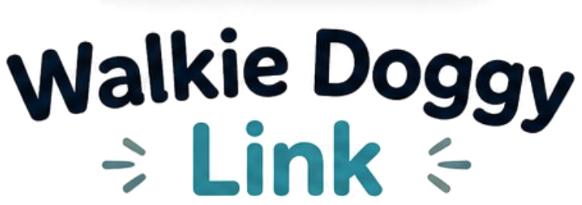
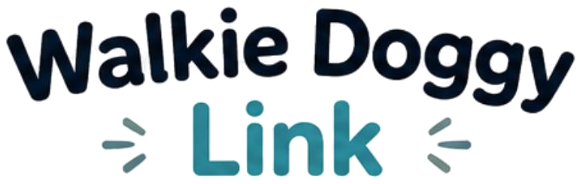
fix(tutorial-video): wordmark DRAFT v2 removes residual shadow stroke
Video QA of the music + clean-wordmark preview showed a faint grey stroke
above the lettering. Cause: the source's shadow band covers only the
middle of the top rows, so the per-row background model read it as faint
ink (alpha up to 16). v2 models the background in 2-D by normalised
convolution over non-ink pixels and clears stray alpha outside the glyphs:
top rows fully transparent, 0 stray pixels, round-trip ink error mean
0.26 levels (was 0.66). Provenance and QA sheet updated; still DRAFT,
mascot untouched.

Validator: report non-silent audio as "narration and/or music" (a
music-only DRAFT preview was labelled "narration present").

Claude-Session: https://claude.ai/code/session_01M2p5shTTMgSJjd9m8b4GYB

diff --git a/scripts/tutorial-video/validate_video.py b/scripts/tutorial-video/validate_video.py
@@ -108,7 +108,7 @@ def main() -> None:
                              capture_output=True, text=True).stderr
         m = re.search(r'max_volume: (-?[\d.inf]+) dB', vol)
         print(f'INFO {name}: audio max_volume {m.group(1) if m else "?"} dB '
-              f'({"silent — animatic, no narration yet" if m and m.group(1) in ("-inf", "-91.0") else "narration present"})')
+              f'({"silent — animatic, no audio yet" if m and m.group(1) in ("-inf", "-91.0") else "audio present (narration and/or music)"})')
 
     vtt = out / 'tutorial.he.vtt'
     cues = parse_vtt(vtt)

diff --git a/docs/product/tutorial-video/assets/WORDMARK_PROVENANCE.md b/docs/product/tutorial-video/assets/WORDMARK_PROVENANCE.md
@@ -4,7 +4,7 @@ Lifecycle: **DRAFT** — not used by the app; not used by the video build unless
 
 | | |
 | --- | --- |
[3 lines of base64/hex data omitted]
 | Replaces? | Nothing. `assets/walkie-doggy-link-wordmark-transparent.png` is untouched. |
 | Mascot | Not involved. No mascot file was read or written. |
@@ -12,13 +12,13 @@ Lifecycle: **DRAFT** — not used by the app; not used by the video build unless
 ## Why
 The existing `walkie-doggy-link-wordmark-transparent.png` carries a poor matte: a dark halo around every glyph, a grey band across the top and a light fringe (≈76 % of its pixels are semi-transparent). It is visible on cream, turquoise and dark backgrounds (`wordmark-clean-qa-sheet.jpg`, left column).
 
-## Method (deterministic editing, no generation)
-1. Background modelled per row as the 90th percentile of each row's min-channel — the source has a soft grey shadow band in its top ~12 rows (240→250) that a single background colour would leave behind.
-2. Alpha = clamp((B − min(R,G,B) − 6) / (B − 70 − 6)): noise floor 6 levels, ink at min-channel ≤ 70 fully opaque.
-3. Colour un-premultiplied: F = (P − (1 − α)·B) / α.
-4. Cropped to content with a 6 px margin.
+## Method v2 (deterministic editing, no generation)
+1. Ink mask: min(R,G,B) < 215, dilated by 4 px (glyphs and their anti-aliased edges).
+2. **2-D background model** by normalised convolution: a Gaussian (σ = 4 px) average of non-ink pixels only, evaluated at every pixel. The source's soft grey shadow band covers only the middle of the top rows, so a per-row model (v1) read it as faint ink and left a visible stroke above the lettering in video QA. v2 removes it.
+3. Alpha = clamp((B − min(R,G,B) − 6) / (B − 70 − 6)); stray alpha ≤ 16/255 outside the ink mask set to 0.
+4. Colour un-premultiplied: F = (P − (1 − α)·B) / α. Cropped to content with a 6 px margin; the band rows fall outside the crop.
 
-Verification: compositing the result back over the original background reproduces the source on ink pixels within a mean of 0.66 and max of 5.9 levels (8-bit). Pixels: 68 % fully transparent, 18 % fully opaque, 15 % partial (anti-aliasing).
+Verification: compositing back over the modelled background reproduces the source on ink pixels within a mean of **0.26** levels (max 12.2 at isolated edge pixels); **0** stray pixels outside the glyphs; top rows fully transparent. QA on cream, dark, turquoise and white: no halo, band, stroke or fringe (`wordmark-clean-qa-sheet.jpg`).
 
 ## Limits
 * Resolution is that of the source (608 px wide). For large display, a vector or high-resolution master of the wordmark is still the right long-term asset.
